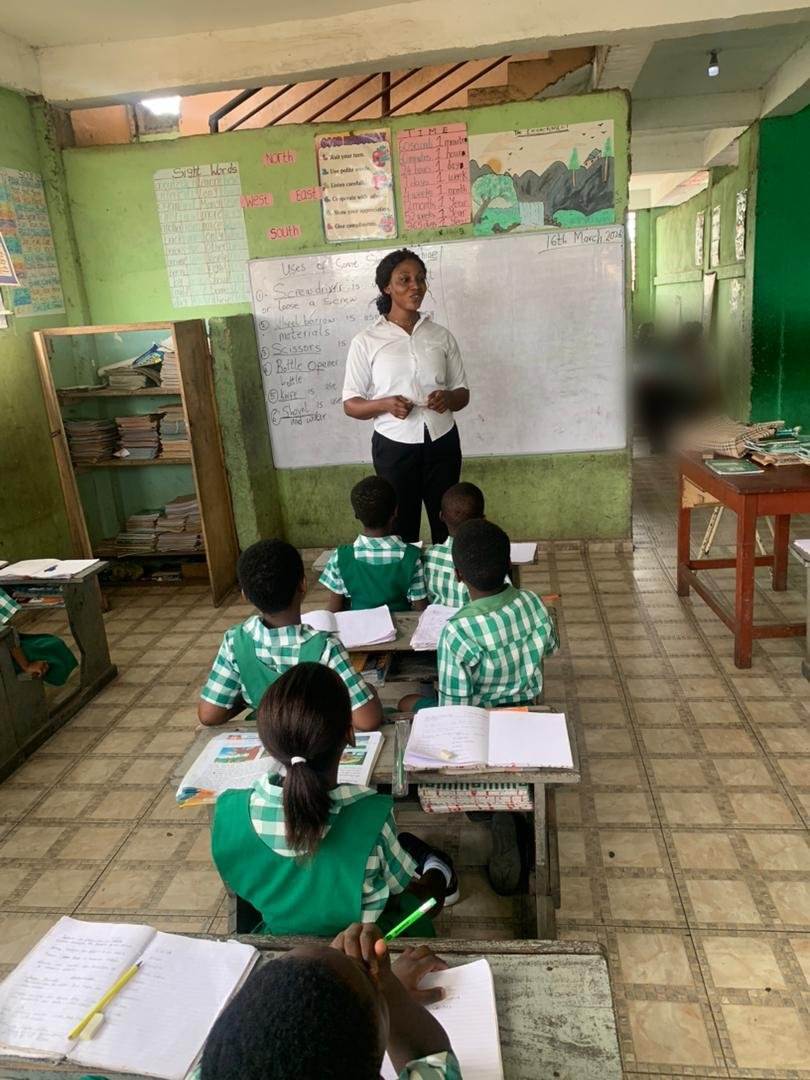
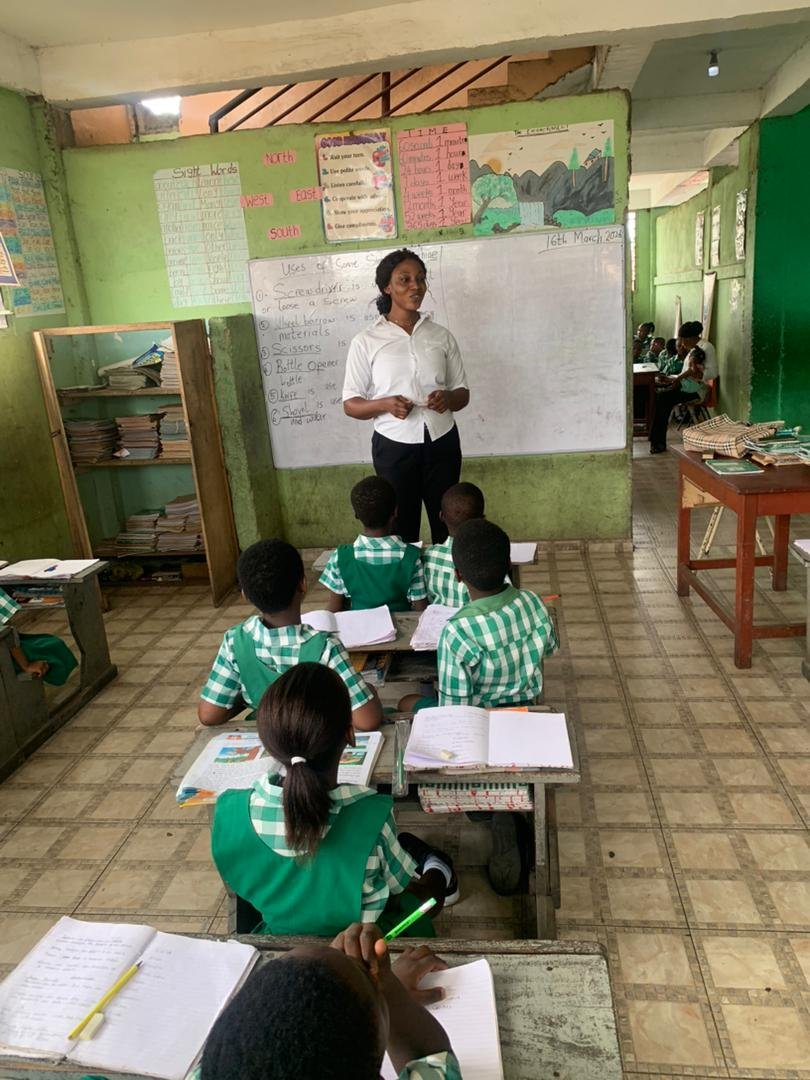
Add Nancy's classroom and school-life photos
She gave permission for learners' faces to be shown.

Changed region(s): [[0.7407, 0.275, 0.8951, 0.4278]]

diff --git a/site/portfolio.html b/site/portfolio.html
@@ -62,6 +62,40 @@
 
     <div class="panel">
       <div class="panel-head">
+        <div class="focus-icon"><svg width="20" height="20" viewBox="0 0 24 24" fill="none" stroke="currentColor" stroke-width="1.8" stroke-linecap="round" stroke-linejoin="round"><circle cx="11" cy="11" r="7"/><path d="M20 20l-4.3-4.3"/></svg></div>
+        <h3>In the Classroom</h3>
+      </div>
+      <p class="panel-intro">Teaching and supporting learners at Coach Basic School.</p>
+      <div class="evidence-grid" style="grid-template-columns:repeat(auto-fill,minmax(220px,1fr));">
+          <div class="evidence-card">
+            <img class="evidence-photo" src="assets/class-13.jpg" alt="Nancy speaking to her class">
+            <div class="evidence-body">
+              <h4>Leading the Lesson</h4>
+              <span class="evidence-tag">In class</span>
+              <a class="evidence-view" href="assets/class-13.jpg" target="_blank" rel="noopener">View</a>
+            </div>
+          </div>
+          <div class="evidence-card">
+            <img class="evidence-photo" src="assets/teaching.jpg" alt="Nancy teaching in front of the whiteboard">
+            <div class="evidence-body">
+              <h4>Uses of Some Tools</h4>
+              <span class="evidence-tag">16 March 2026</span>
+              <a class="evidence-view" href="assets/teaching.jpg" target="_blank" rel="noopener">View</a>
+            </div>
+          </div>
+          <div class="evidence-card">
+            <img class="evidence-photo" src="assets/class-15.jpg" alt="Nancy helping learners at their desks">
+            <div class="evidence-body">
+              <h4>Guiding Learners</h4>
+              <span class="evidence-tag">Group support</span>
+              <a class="evidence-view" href="assets/class-15.jpg" target="_blank" rel="noopener">View</a>
+            </div>
+          </div>
+      </div>
+    </div>
+
+    <div class="panel">
+      <div class="panel-head">
         <div class="focus-icon"><svg width="20" height="20" viewBox="0 0 24 24" fill="none" stroke="currentColor" stroke-width="1.8" stroke-linecap="round" stroke-linejoin="round"><path d="M12 3.5l2.2 4.6 5 .7-3.6 3.6.9 5-4.5-2.4-4.5 2.4.9-5-3.6-3.6 5-.7z"/></svg></div>
         <h3>Teaching Qualities I Will Focus On</h3>
       </div>

diff --git a/site/internship.html b/site/internship.html
@@ -187,6 +187,19 @@
       </div>
     </div>
 
+    <div class="panel">
+      <div class="panel-head">
+        <div class="focus-icon"><svg width="20" height="20" viewBox="0 0 24 24" fill="none" stroke="currentColor" stroke-width="1.8" stroke-linecap="round" stroke-linejoin="round"><circle cx="9" cy="8" r="3"/><path d="M3 20c0-3.3 2.7-5.5 6-5.5s6 2.2 6 5.5"/><circle cx="17" cy="9" r="2.4"/><path d="M15.5 14.6c3 .2 5.5 2.1 5.5 5.4"/></svg></div>
+        <h3>Wider School Life</h3>
+      </div>
+      <div class="growth-split">
+        <div>
+          <p class="body-text">Beyond the classroom, I joined learners and staff in school activities. Taking part in the wider life of the school helped me build good relationships with learners and colleagues.</p>
+        </div>
+        <img class="growth-photo" src="assets/event-11.jpg" style="aspect-ratio:4/3;height:auto;object-fit:cover;object-position:center 55%;" alt="Learners and staff during a school activity at Coach Basic School">
+      </div>
+    </div>
+
     <div class="block">
       <h3>What I Gained</h3>
       <div class="chip-row">

diff --git a/site/evidence.html b/site/evidence.html
@@ -97,7 +97,7 @@
     </div>
 
     <div class="block">
-      <p style="font-size:13px;color:var(--ink-muted);">To protect their privacy, the names of other staff members have been covered, and learners in photos are not identifiable.</p>
+      <p style="font-size:13px;color:var(--ink-muted);">To protect their privacy, the names of other staff members have been covered.</p>
     </div>
   </div>
 </main>
